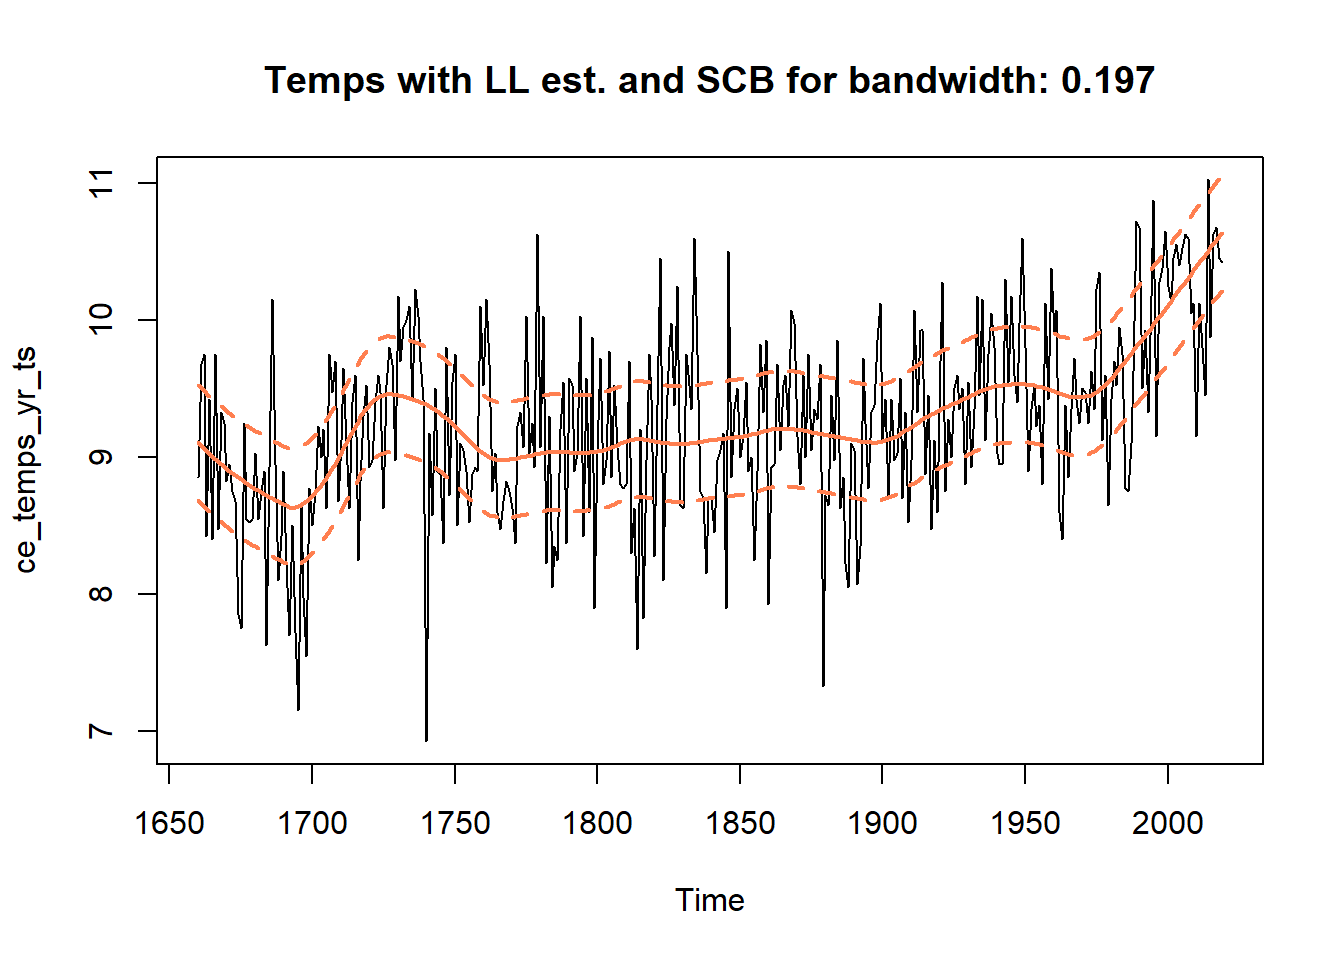
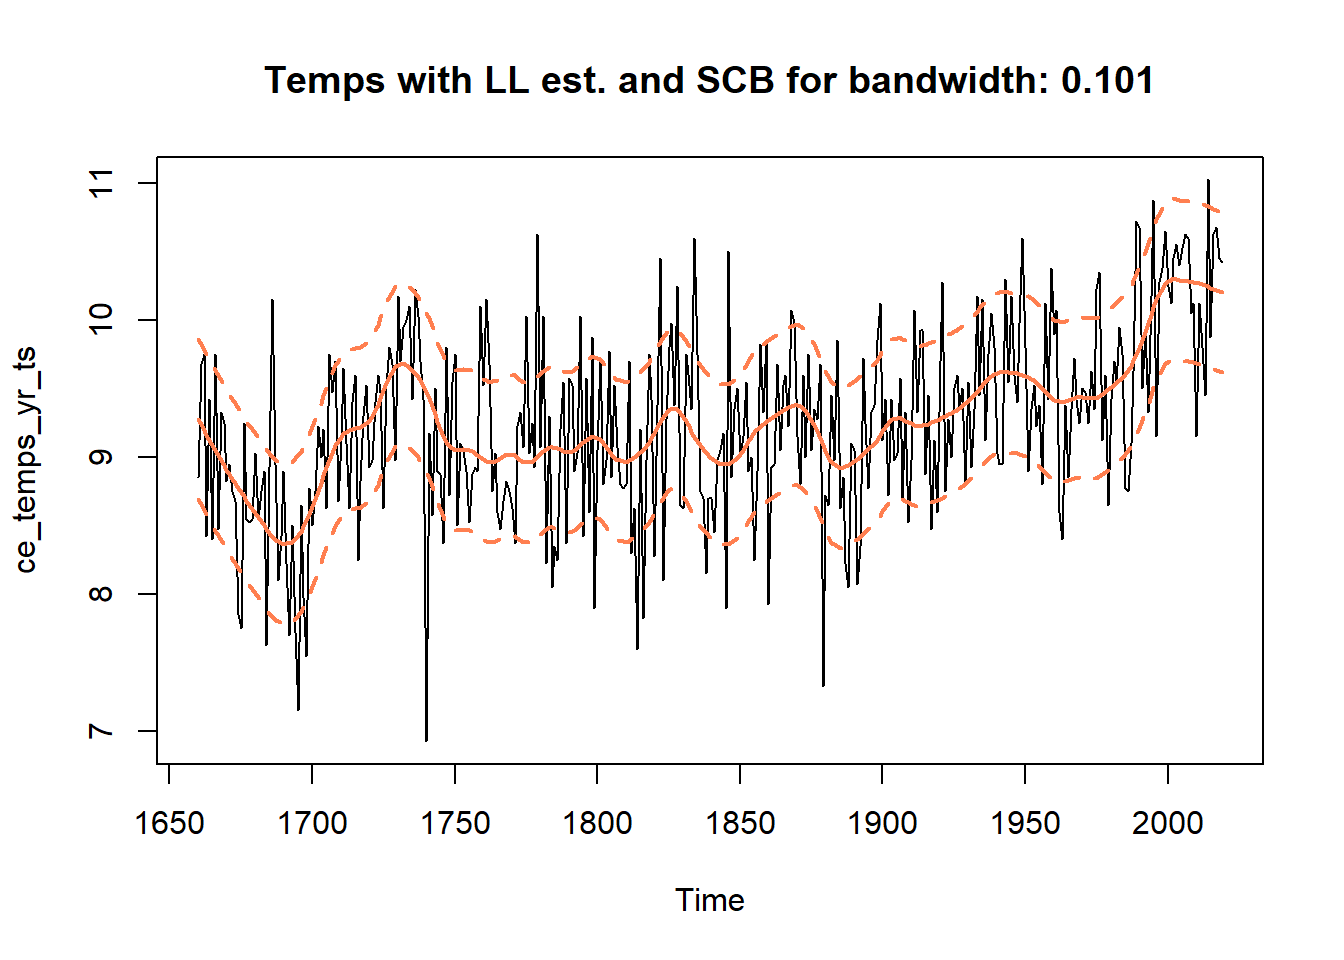
Build site.

diff --git a/docs/weather_data_analysis.html b/docs/weather_data_analysis.html
@@ -344,7 +344,7 @@ div.section {
 <div class="tab-content">
 <div id="summary" class="tab-pane fade in active">
 <p>
-<strong>Last updated:</strong> 2020-03-05
+<strong>Last updated:</strong> 2020-03-06
 </p>
 <p>
 <strong>Checks:</strong> <span class="glyphicon glyphicon-ok text-success" aria-hidden="true"></span> 7 <span class="glyphicon glyphicon-exclamation-sign text-danger" aria-hidden="true"></span> 0
@@ -435,10 +435,10 @@ This reproducible <a href="http://rmarkdown.rstudio.com">R Markdown</a> analysis
 <div class="panel panel-default">
 <div class="panel-heading">
 <p class="panel-title">
-<a data-toggle="collapse" data-parent="#workflowr-checks" href="#strongRepositoryversionstrongahrefhttpsgithubcomacloudysun12SCBsExplorationtree255e23e9bdb82554292a15169fa8138b5b9f170ctargetblank255e23ea"> <span class="glyphicon glyphicon-ok text-success" aria-hidden="true"></span> <strong>Repository version:</strong> <a href="https://github.com/acloudysun12/SCBs_Exploration/tree/255e23e9bdb82554292a15169fa8138b5b9f170c" target="_blank">255e23e</a> </a>
+<a data-toggle="collapse" data-parent="#workflowr-checks" href="#strongRepositoryversionstrongahrefhttpsgithubcomacloudysun12SCBsExplorationtree0d6644f671362332d30027907d0cf6eb641609b9targetblank0d6644fa"> <span class="glyphicon glyphicon-ok text-success" aria-hidden="true"></span> <strong>Repository version:</strong> <a href="https://github.com/acloudysun12/SCBs_Exploration/tree/0d6644f671362332d30027907d0cf6eb641609b9" target="_blank">0d6644f</a> </a>
 </p>
 </div>
[2 lines of base64/hex data omitted]
 <div class="panel-body">
 <p>
 Great! You are using Git for version control. Tracking code development and connecting the code version to the results is critical for reproducibility. The version displayed above was the version of the Git repository at the time these results were generated. <br><br> Note that you need to be careful to ensure that all relevant files for the analysis have been committed to Git prior to generating the results (you can use <code>wflow_publish</code> or <code>wflow_git_commit</code>). workflowr only checks the R Markdown file, but you know if there are other scripts or data files that it depends on. Below is the status of the Git repository when the results were generated:
@@ -482,6 +482,40 @@ Message
 </tr>
 </thead>
 <tbody>
+<tr>
+<td>
+Rmd
+</td>
+<td>
+<a href="https://github.com/acloudysun12/SCBs_Exploration/blob/0d6644f671362332d30027907d0cf6eb641609b9/analysis/weather_data_analysis.Rmd" target="_blank">0d6644f</a>
+</td>
+<td>
+Adam Sun
+</td>
+<td>
+2020-03-06
+</td>
+<td>
+initial file for SCBs analysis
+</td>
+</tr>
+<tr>
+<td>
+html
+</td>
+<td>
+<a href="https://rawcdn.githack.com/acloudysun12/SCBs_Exploration/708785b0dcdf4c619ea3131ee313ea85ff6fec05/docs/weather_data_analysis.html" target="_blank">708785b</a>
+</td>
+<td>
+Adam Sun
+</td>
+<td>
+2020-03-05
+</td>
+<td>
+Build site.
+</td>
+</tr>
 <tr>
 <td>
 html
@@ -596,7 +630,7 @@ initial analysis file with updates to come
 <div id="data-prep-and-smoothing" class="section level2">
 <h2>Data prep and smoothing <br></h2>
 <p>Notes: <br> - Consider annual mean temps, i.e. 1660 to 2019 has 360 data points. <br> - Estimate sigma_hat_sq by looking at residuals of <span class="math inline">\(X_i - \mu_k(i)\)</span>, where <span class="math inline">\(\mu_i\)</span> is based on local linear estimate approach with bandwidth <span class="math inline">\(k \in (\frac{1}{3}, \frac{1}{2})\)</span>, as per step (a) of 4.1: Implementation. <br></p>
-<p>Q’s: - Lowess in R uses “locally-weighted polynomial regression”. Can we assume these weights are correct? <br> - Should we consider annualized temps, i.e. taking mean of last 4 quarters but quarter over quarter? <br> (- Would we ever want equal weights instead of weights based on a kernel?) <br></p>
+<p>Q’s: <br> - Lowess in R uses “locally-weighted polynomial regression”. Can we assume these weights are correct? <br> - Should we consider annualized temps, i.e. taking mean of last 4 quarters but quarter over quarter? <br> (- Would we ever want equal weights instead of weights based on a kernel?) <br></p>
 <pre class="r"><code>ce_temps_path = &quot;https://raw.githubusercontent.com/acloudysun12/SCBs_Exploration/master/data/ce_ssn_temp_mean_raw.txt&quot;
 ce_temps = read.table(ce_temps_path, header = TRUE) # we essentially ignore 1659
 
@@ -661,15 +695,15 @@ ce_resids_yr_ts_2 = ce_temps_yr_ts - temps_LL_2$y</code></pre>
 </div>
 <div id="estimating-hatsigma2-with-sdf" class="section level2">
 <h2>Estimating <span class="math inline">\(\hat\sigma^2\)</span> with SDF <br></h2>
-<p>Notes/Q’s: <br> - We use spectral density function to get estimate for <span class="math inline">\(\gamma(0)\)</span> aka <span class="math inline">\(\hat\sigma^2\)</span>. <br> - What smoothing should be used for periodogram? <br> - what type of smoothing for periodogram? Modified Daniell okay? Looked at no smoothing, modified.daniell.c(4,4) (0.03 bandwidth), and modified.daniell.c(18,18) (0.15 banwidth). Seems sigma_sq_hat estimate is similar across any smoothing. We pick the largest estimate. <br> - Estimate of sigma_sq_hat should be 2*(area of periodogram), since it’s calculated in range of <span class="math inline">\(w \in (0, 1/2)\)</span> but we want range <span class="math inline">\(w \in (-1/2, 1/2)\)</span>? <br> - Is my periodogram approach correct? Why is there mention of a the spectral density function = <span class="math inline">\(\sigma^2/(2\pi)\)</span>, so should I multiply the periodogram by <span class="math inline">\(2\pi\)</span>? <br> - Should we use periodogram appraoch for variance estimate? Or should we use one of the variance estimates provided in equation (25)?</p>
+<p>Notes/Q’s: <br> - We use spectral density function to get estimate for <span class="math inline">\(\gamma(0)\)</span> aka <span class="math inline">\(\hat\sigma^2\)</span>. <br> - What smoothing should be used for periodogram? <br> - what type of smoothing for periodogram? Modified Daniell okay? Looked at no smoothing, modified.daniell.c(4,4) (0.03 bandwidth), and modified.daniell.c(18,18) (0.15 banwidth). Seems sigma_sq_hat estimate is similar across any smoothing. We pick the largest estimate. <br> - Estimate of sigma_sq_hat should be 2*(area of periodogram), since it’s calculated in range of <span class="math inline">\(w \in (0, 1/2)\)</span> but we want range <span class="math inline">\(w \in (-1/2, 1/2)\)</span>? <br> - Is my periodogram approach correct? Why is there mention of the spectral density function = <span class="math inline">\(\sigma^2/(2\pi)\)</span> in Part 5. oe this mean I shouldd multiply my periodogram estimate by <span class="math inline">\(2\pi\)</span>? <br> - Should we use periodogram appraoch for variance estimate? Or should we use one of the variance estimates provided in equation (25)?</p>
 <pre class="r"><code># Note ce_resids_yr_ts_1 is not used for estimating sigma_sq_hat since ce_resids_yr_ts_2 bigger
 
 smooth_1 = kernel(&quot;modified.daniell&quot;, c(4,4))
-1/(sum(smooth_1$coef^2) + sum(smooth_1$coef[-1]^2))/length(ce_temps_yr_ts)</code></pre>
-<pre><code>[1] 0.03382468</code></pre>
+round(1/(sum(smooth_1$coef^2) + sum(smooth_1$coef[-1]^2))/length(ce_temps_yr_ts), 3)</code></pre>
+<pre><code>[1] 0.034</code></pre>
 <pre class="r"><code>smooth_2 = kernel(&quot;modified.daniell&quot;, c(18,18))
-1/(sum(smooth_2$coef^2) + sum(smooth_2$coef[-1]^2))/length(ce_temps_yr_ts)</code></pre>
-<pre><code>[1] 0.150114</code></pre>
+round(1/(sum(smooth_2$coef^2) + sum(smooth_2$coef[-1]^2))/length(ce_temps_yr_ts), 3)</code></pre>
+<pre><code>[1] 0.15</code></pre>
 <pre class="r"><code>Iw_smooth_0 = mvspec(ce_resids_yr_ts_2, log = &quot;no&quot;) # this uses no smoothing of periodogram</code></pre>
 <p><img src="figure/weather_data_analysis.Rmd/unnamed-chunk-2-1.png" width="672" style="display: block; margin: auto;" /></p>
 <p>
@@ -796,17 +830,20 @@ sig_sq_hat_1</code></pre>
 <pre class="r"><code>sig_sq_hat_2 = 2*sum(Iw_smooth_2$freq[1] * Iw_smooth_2$spec) 
 sig_sq_hat_2</code></pre>
 <pre><code>[1] 0.2898102</code></pre>
-<p><span class="math inline">\(\hat\sigma^2\)</span> without smoothing: 0.289 <br> <span class="math inline">\(\hat\sigma^2\)</span> with modified Daniell(4,4): 0.289 <br> <span class="math inline">\(\hat\sigma^2\)</span> with modified Daniell(18,18): 0.289 <br></p>
+<p>** <span class="math inline">\(\hat\sigma^2\)</span> without smoothing: 0.289 ** <br> ** <span class="math inline">\(\hat\sigma^2\)</span> with modified Daniell(4,4): 0.289 ** <br> ** <span class="math inline">\(\hat\sigma^2\)</span> with modified Daniell(18,18): 0.289 ** <br></p>
 <p><br></p>
 </div>
 <div id="getting-optimal-bandwidth-for-mu" class="section level2">
 <h2>Getting optimal bandwidth for <span class="math inline">\(\mu\)</span> <br></h2>
-<p>Notes/Q’s: - Not sure how to calculate Ruppert’s (1995) optimal bandwidth for MSE. <br> - Try a range of bandwidths as the optimal Ruppert bandwidth to see what results we get. <br> - Get variance correction factor (<span class="math inline">\(\hat\rho\)</span>) for each bandwidth based on step (a) of 4.1: Implementation. <br> - <span class="math inline">\(\nu\)</span> based on the sample variance of the errors (observed - fitted local linear estimate based on bandwidth) <br> - Final bandwidth based on <span class="math inline">\(2\hat\rho^{1/5}b_{Ruppert}\)</span>, trying different values for <span class="math inline">\(b_{Ruppert}\)</span>. <br> - Try to figure out Ruppert’s 1995 optimal bandwidth for MSE?</p>
-<pre class="r"><code>b_ruppert_1 = 0.02
+<p>Notes/Q’s: <br> - Not sure how to calculate Ruppert’s (1995) optimal bandwidth for MSE. <br> - Try a range of bandwidths as the optimal Ruppert bandwidth to see what results we get. <br> - Get variance correction factor (<span class="math inline">\(\hat\rho\)</span>) for each bandwidth based on step (a) of 4.1: Implementation. <br> - <span class="math inline">\(\nu\)</span> based on the sample variance of the errors (observed - fitted local linear estimate based on bandwidth) <br> - ** Final bandwidth based on <span class="math inline">\(2\hat\rho^{1/5}b_{Ruppert}\)</span>, trying different values for <span class="math inline">\(b_{Ruppert}\)</span>. ** <br> - Try to figure out Ruppert’s 1995 optimal bandwidth for MSE?</p>
+<pre class="r"><code>b_ruppert_0 = 0.01
+b_ruppert_1 = 0.02
 b_ruppert_2 = 0.05
 b_ruppert_3 = 0.10
 b_ruppert_4 = 0.20
 
+e_hats_0 = ce_temps_yr_ts -  (2*lowess(ce_temps_yr_ts, f = b_ruppert_0)$y -
+  lowess(ce_temps_yr_ts, f = b_ruppert_0*sqrt(2))$y)
 e_hats_1 = ce_temps_yr_ts -  (2*lowess(ce_temps_yr_ts, f = b_ruppert_1)$y -
   lowess(ce_temps_yr_ts, f = b_ruppert_1*sqrt(2))$y)
 e_hats_2 = ce_temps_yr_ts -  (2*lowess(ce_temps_yr_ts, f = b_ruppert_2)$y -
@@ -816,28 +853,29 @@ e_hats_3 = ce_temps_yr_ts -  (2*lowess(ce_temps_yr_ts, f = b_ruppert_3)$y -
 e_hats_4 = ce_temps_yr_ts -  (2*lowess(ce_temps_yr_ts, f = b_ruppert_4)$y -
   lowess(ce_temps_yr_ts, f = b_ruppert_4*sqrt(2))$y)
 
+nu_0 = sum(e_hats_0^2)/length(ce_temps_yr_ts)
 nu_1 = sum(e_hats_1^2)/length(ce_temps_yr_ts)
 nu_2 = sum(e_hats_2^2)/length(ce_temps_yr_ts)
 nu_3 = sum(e_hats_3^2)/length(ce_temps_yr_ts)
 nu_4 = sum(e_hats_4^2)/length(ce_temps_yr_ts)
+rho_hat_0 = sig_sq_hat_0/nu_0
 rho_hat_1 = sig_sq_hat_0/nu_1
 rho_hat_2 = sig_sq_hat_0/nu_2
 rho_hat_3 = sig_sq_hat_0/nu_3
 rho_hat_4 = sig_sq_hat_0/nu_4
 
+b_final_0 = 2*(rho_hat_0)^(1/5)*b_ruppert_0
 b_final_1 = 2*(rho_hat_1)^(1/5)*b_ruppert_1
 b_final_2 = 2*(rho_hat_2)^(1/5)*b_ruppert_2
 b_final_3 = 2*(rho_hat_3)^(1/5)*b_ruppert_3
 b_final_4 = 2*(rho_hat_4)^(1/5)*b_ruppert_4</code></pre>
-<p>Final bandwidths to try: 0.042, 0.101, 0.197, 0.388.</p>
+<p><br></p>
+<p>** Final “optimal” bandwidths to try based on adjustments to Ruppert optimal bandwidth: 0.017, 0.042, 0.101, 0.197, 0.388. **</p>
 <p><br></p>
 </div>
 <div id="simulations" class="section level2">
-<h2>Simulations</h2>
-<ul>
-<li>Try all final bandwidths given the initial “optimal” bandwidths and following calculations of 4.1: Implementation. <br></li>
-<li>Try speeding up sim somehow?</li>
-</ul>
+<h2>Simulations <br></h2>
+<p>Notes/Q’s: <br> - Try all final bandwidths given the initial “optimal” bandwidths and following calculations of 4.1: Implementation. <br> - Try speeding up sim somehow?</p>
 <pre class="r"><code>set.seed(9980)
 
 years = time(ce_temps_yr_ts)
@@ -852,11 +890,13 @@ num_sims = 10000
 rnorm_sims = matrix(rnorm(num_sims*length(ce_temps_yr_ts), 0 ,1), 
                     nrow = num_sims, ncol = length(ce_temps_yr_ts))
 
+sup_mus_boot_0 = apply(rnorm_sims, MARGIN = 1, FUN = calc_suprem_rnorm, b_final = b_final_0)
 sup_mus_boot_1 = apply(rnorm_sims, MARGIN = 1, FUN = calc_suprem_rnorm, b_final = b_final_1)
 sup_mus_boot_2 = apply(rnorm_sims, MARGIN = 1, FUN = calc_suprem_rnorm, b_final = b_final_2)
 sup_mus_boot_3 = apply(rnorm_sims, MARGIN = 1, FUN = calc_suprem_rnorm, b_final = b_final_3)
 sup_mus_boot_4 = apply(rnorm_sims, MARGIN = 1, FUN = calc_suprem_rnorm, b_final = b_final_4)
 
+interval_95_0 = quantile(sup_mus_boot_0, 0.95)*sqrt(sig_sq_hat_0)
 interval_95_1 = quantile(sup_mus_boot_1, 0.95)*sqrt(sig_sq_hat_0)
 interval_95_2 = quantile(sup_mus_boot_2, 0.95)*sqrt(sig_sq_hat_0)
 interval_95_3 = quantile(sup_mus_boot_3, 0.95)*sqrt(sig_sq_hat_0)
@@ -865,11 +905,14 @@ interval_95_4 = quantile(sup_mus_boot_4, 0.95)*sqrt(sig_sq_hat_0)</code></pre>
 </div>
 <div id="putting-it-together" class="section level2">
 <h2>Putting it together <br></h2>
-<pre class="r"><code>ce_temps_tilde_1 = 2*lowess(ce_temps_yr_ts, f = b_final_1)$y - lowess(ce_temps_yr_ts, f = b_final_1*sqrt(2))$y
+<pre class="r"><code>ce_temps_tilde_0 = 2*lowess(ce_temps_yr_ts, f = b_final_0)$y - lowess(ce_temps_yr_ts, f = b_final_0*sqrt(2))$y
+ce_temps_tilde_1 = 2*lowess(ce_temps_yr_ts, f = b_final_1)$y - lowess(ce_temps_yr_ts, f = b_final_1*sqrt(2))$y
 ce_temps_tilde_2 = 2*lowess(ce_temps_yr_ts, f = b_final_2)$y - lowess(ce_temps_yr_ts, f = b_final_2*sqrt(2))$y
 ce_temps_tilde_3 = 2*lowess(ce_temps_yr_ts, f = b_final_3)$y - lowess(ce_temps_yr_ts, f = b_final_3*sqrt(2))$y
 ce_temps_tilde_4 = 2*lowess(ce_temps_yr_ts, f = b_final_4)$y - lowess(ce_temps_yr_ts, f = b_final_4*sqrt(2))$y
 
+temps_UB_0 = ce_temps_tilde_0 + interval_95_0
+temps_LB_0 = ce_temps_tilde_0 - interval_95_0
 temps_UB_1 = ce_temps_tilde_1 + interval_95_1
 temps_LB_1 = ce_temps_tilde_1 - interval_95_1
 temps_UB_2 = ce_temps_tilde_2 + interval_95_2
@@ -878,17 +921,17 @@ temps_UB_3 = ce_temps_tilde_3 + interval_95_3
 temps_LB_3 = ce_temps_tilde_3 - interval_95_3
 temps_UB_4 = ce_temps_tilde_4 + interval_95_4
 temps_LB_4 = ce_temps_tilde_4 - interval_95_4</code></pre>
-<p>Empirical coverage rate with 95% SCB for bandwidth = 0.042: 0.931 <br> Empirical coverage rate with 95% SCB for bandwidth = 0.101: 0.703 <br> Empirical coverage rate with 95% SCB for bandwidth = 0.197: 0.553 <br> Empirical coverage rate with 95% SCB for bandwidth = 0.388: 0.386 <br></p>
-<p>Notes/Q’s: <br> - why do empirical coverage rates seem quite low across all 95% SCBs? <br> - This even applies for bandwidths as small as 0.02 (around 7 years), which only has empirical coverage around 93%. <br> - How short would Ruppert (1995) optimal bandwidth be? Even shorter than 0.02? <br> - Is our sigma estimated with spectral density and periodogram too low? Should we use Equation (25) instead? <br></p>
+<p>** Empirical coverage rate with 95% SCB for bandwidth = 0.017 – 0.997 ** <br> ** Empirical coverage rate with 95% SCB for bandwidth = 0.042 – 0.931 ** <br> ** Empirical coverage rate with 95% SCB for bandwidth = 0.101 – 0.703 ** <br> ** Empirical coverage rate with 95% SCB for bandwidth = 0.197 – 0.553 ** <br> ** Empirical coverage rate with 95% SCB for bandwidth = 0.388 – 0.386 ** <br></p>
+<p>Notes/Q’s: <br> - Why do empirical coverage rates seem quite low across most 95% SCBs? <br> - As bandwidths shorter, empirical coveragae better. <br> - Smallest bandwidth of 0.016 (around 6 years) has empirical coverage &gt; 95%, while rest of empirical coverage rates are worse. <br> - How short would Ruppert (1995) optimal bandwidth be? Even shorter than 0.02? <br> - Is our sigma estimated with spectral density and periodogram too low? Should we try use Equation (25) estimates of <span class="math inline">\(\sigma\)</span> instead? <br></p>
 <p><br></p>
 </div>
 <div id="plots-with-scbs" class="section level2">
 <h2>Plots with SCBs <br></h2>
 <p>Notes/Q’s: <br> - For each bandwidth tried, we plot time series, local linear estimates, and their SCBs.</p>
-<pre class="r"><code>plot(ce_temps_yr_ts, main = paste(&quot;Temps with LL est. and SCB for bandwidth:&quot;, round(b_final_1, 3)))
-lines(as.numeric(years), ce_temps_tilde_1, lwd = 2, lty = 1, col = &quot;coral&quot;)
-lines(x = as.numeric(years), y = temps_UB_1, lwd = 2, lty = 2, col = &quot;coral&quot;)
-lines(x = as.numeric(years), y = temps_LB_1, lwd = 2, lty = 2, col = &quot;coral&quot;)</code></pre>
+<pre class="r"><code>plot(ce_temps_yr_ts, main = paste(&quot;Temps with LL est. and SCB for bandwidth:&quot;, round(b_final_0, 3)))
+lines(as.numeric(years), ce_temps_tilde_0, lwd = 2, lty = 1, col = &quot;coral&quot;)
+lines(x = as.numeric(years), y = temps_UB_0, lwd = 2, lty = 2, col = &quot;coral&quot;)
+lines(x = as.numeric(years), y = temps_LB_0, lwd = 2, lty = 2, col = &quot;coral&quot;)</code></pre>
 <p><img src="figure/weather_data_analysis.Rmd/unnamed-chunk-6-1.png" width="672" style="display: block; margin: auto;" /></p>
 <p>
 <button type="button" class="btn btn-default btn-xs btn-workflowr btn-workflowr-fig" data-toggle="collapse" data-target="#fig-unnamed-chunk-6-1">
@@ -927,10 +970,10 @@ Adam Sun
 </table>
 </div>
 </div>
-<pre class="r"><code>plot(ce_temps_yr_ts, main = paste(&quot;Temps with LL est. and SCB for bandwidth:&quot;, round(b_final_2, 3)))
-lines(as.numeric(years), ce_temps_tilde_2, lwd = 2, lty = 1, col = &quot;coral&quot;)
-lines(x = as.numeric(years), y = temps_UB_2, lwd = 2, lty = 2, col = &quot;coral&quot;)
-lines(x = as.numeric(years), y = temps_LB_2, lwd = 2, lty = 2, col = &quot;coral&quot;)</code></pre>
+<pre class="r"><code>plot(ce_temps_yr_ts, main = paste(&quot;Temps with LL est. and SCB for bandwidth:&quot;, round(b_final_1, 3)))
+lines(as.numeric(years), ce_temps_tilde_1, lwd = 2, lty = 1, col = &quot;coral&quot;)
+lines(x = as.numeric(years), y = temps_UB_1, lwd = 2, lty = 2, col = &quot;coral&quot;)
+lines(x = as.numeric(years), y = temps_LB_1, lwd = 2, lty = 2, col = &quot;coral&quot;)</code></pre>
 <p><img src="figure/weather_data_analysis.Rmd/unnamed-chunk-6-2.png" width="672" style="display: block; margin: auto;" /></p>
 <p>
 <button type="button" class="btn btn-default btn-xs btn-workflowr btn-workflowr-fig" data-toggle="collapse" data-target="#fig-unnamed-chunk-6-2">
@@ -969,10 +1012,10 @@ Adam Sun
 </table>
 </div>
 </div>
-<pre class="r"><code>plot(ce_temps_yr_ts, main = paste(&quot;Temps with LL est. and SCB for bandwidth:&quot;, round(b_final_3, 3)))
-lines(as.numeric(years), ce_temps_tilde_3, lwd = 2, lty = 1, col = &quot;coral&quot;)
-lines(x = as.numeric(years), y = temps_UB_3, lwd = 2, lty = 2, col = &quot;coral&quot;)
-lines(x = as.numeric(years), y = temps_LB_3, lwd = 2, lty = 2, col = &quot;coral&quot;)</code></pre>
+<pre class="r"><code>plot(ce_temps_yr_ts, main = paste(&quot;Temps with LL est. and SCB for bandwidth:&quot;, round(b_final_2, 3)))
+lines(as.numeric(years), ce_temps_tilde_2, lwd = 2, lty = 1, col = &quot;coral&quot;)
+lines(x = as.numeric(years), y = temps_UB_2, lwd = 2, lty = 2, col = &quot;coral&quot;)
+lines(x = as.numeric(years), y = temps_LB_2, lwd = 2, lty = 2, col = &quot;coral&quot;)</code></pre>
 <p><img src="figure/weather_data_analysis.Rmd/unnamed-chunk-6-3.png" width="672" style="display: block; margin: auto;" /></p>
 <p>
 <button type="button" class="btn btn-default btn-xs btn-workflowr btn-workflowr-fig" data-toggle="collapse" data-target="#fig-unnamed-chunk-6-3">
@@ -1011,10 +1054,10 @@ Adam Sun
 </table>
 </div>
 </div>
-<pre class="r"><code>plot(ce_temps_yr_ts, main = paste(&quot;Temps with LL est. and SCB for bandwidth:&quot;, round(b_final_4, 3)))
-lines(as.numeric(years), ce_temps_tilde_4, lwd = 2, lty = 1, col = &quot;coral&quot;)
-lines(x = as.numeric(years), y = temps_UB_4, lwd = 2, lty = 2, col = &quot;coral&quot;)
-lines(x = as.numeric(years), y = temps_LB_4, lwd = 2, lty = 2, col = &quot;coral&quot;)</code></pre>
+<pre class="r"><code>plot(ce_temps_yr_ts, main = paste(&quot;Temps with LL est. and SCB for bandwidth:&quot;, round(b_final_3, 3)))
+lines(as.numeric(years), ce_temps_tilde_3, lwd = 2, lty = 1, col = &quot;coral&quot;)
+lines(x = as.numeric(years), y = temps_UB_3, lwd = 2, lty = 2, col = &quot;coral&quot;)
+lines(x = as.numeric(years), y = temps_LB_3, lwd = 2, lty = 2, col = &quot;coral&quot;)</code></pre>
 <p><img src="figure/weather_data_analysis.Rmd/unnamed-chunk-6-4.png" width="672" style="display: block; margin: auto;" /></p>
 <p>
 <button type="button" class="btn btn-default btn-xs btn-workflowr btn-workflowr-fig" data-toggle="collapse" data-target="#fig-unnamed-chunk-6-4">
@@ -1053,6 +1096,11 @@ Adam Sun
 </table>
 </div>
 </div>
+<pre class="r"><code>plot(ce_temps_yr_ts, main = paste(&quot;Temps with LL est. and SCB for bandwidth:&quot;, round(b_final_4, 3)))
+lines(as.numeric(years), ce_temps_tilde_4, lwd = 2, lty = 1, col = &quot;coral&quot;)
+lines(x = as.numeric(years), y = temps_UB_4, lwd = 2, lty = 2, col = &quot;coral&quot;)
+lines(x = as.numeric(years), y = temps_LB_4, lwd = 2, lty = 2, col = &quot;coral&quot;)</code></pre>
+<p><img src="figure/weather_data_analysis.Rmd/unnamed-chunk-6-5.png" width="672" style="display: block; margin: auto;" /></p>
 <p><br></p>
 </div>
 <div id="estimating-gamma0-with-eq-25" class="section level2">
@@ -1084,7 +1132,7 @@ sig_hat_3_Am_2 = sqrt(pi*kn_2/(2*(length(breaks_kn_2)-1)))*sqrt(sum(abs(df_Am_2$
 </div>
 <div id="re-calc-scbs-with-eq-25" class="section level2">
 <h2>Re-Calc SCBs with Eq (25) <br></h2>
-<p>Notes/Q’s: <br> - We re-calculate the 95% SCBs using the local linear estimate with supposed Ruppert optimal bandwidth of 0.05 (final optimal bnwidth of 0.1. <br> - Note a large discrepancy in empirical coverage rates of the 95% SCBs driven by the difference in estimated variances based on the 3 methods in Equation (25). <br> - Empirical coverage ranges anywhere from 85% to 99%. <br> - We plot the three SCBs as well for comparison.</p>
+<p>Notes/Q’s: <br> - We re-calculate the 95% SCBs using the local linear estimate with supposed Ruppert optimal bandwidth of 0.05 (final optimal bnwidth of 0.1. <br> - Note a large discrepancy in empirical coverage rates of the 95% SCBs driven by the difference in estimated variances based on the 3 methods in Equation (25). <br> - ** Empirical coverage ranges anywhere from 85% to 99%. ** <br> - We plot the three SCBs as well for comparison.</p>
 <pre class="r"><code>interval_95_1_Am = quantile(sup_mus_boot_2, 0.95)*sqrt(sig_hat_1_Am_1)
 interval_95_2_Am = quantile(sup_mus_boot_2, 0.95)*sqrt(sig_hat_2_Am_1)
 interval_95_3_Am = quantile(sup_mus_boot_2, 0.95)*sqrt(sig_hat_3_Am_2)
@@ -1158,7 +1206,9 @@ Adam Sun
 <pre class="r"><code>paste(&quot;empirical coveragae sigma 3 (Eq 25):&quot;, 
       round(length(which(ce_temps_yr_ts &lt;= temps_UB_3_Am &amp; ce_temps_yr_ts &gt;= temps_LB_3_Am))/360, 3))</code></pre>
 <pre><code>[1] &quot;empirical coveragae sigma 3 (Eq 25): 0.992&quot;</code></pre>
-<p>Playground</p>
+<p><br> <br> <br></p>
+<p>Playground <br></p>
+<p>Notes/Q’s: <br> - Thoughts on playing with fake data, like suppose we added 2 degrees Celsius to all temps after 1990, etc.</p>
 <pre class="r"><code>ce_temps_yr_ts_fake = ifelse(time(ce_temps_yr_ts) &gt;= 1900, ce_temps_yr_ts + 2, ce_temps_yr_ts)
 plot(ce_temps_yr_ts_fake)
 lines(lowess(ce_temps_yr_ts_fake, f= 0.1), lwd = 2, col = 2)
